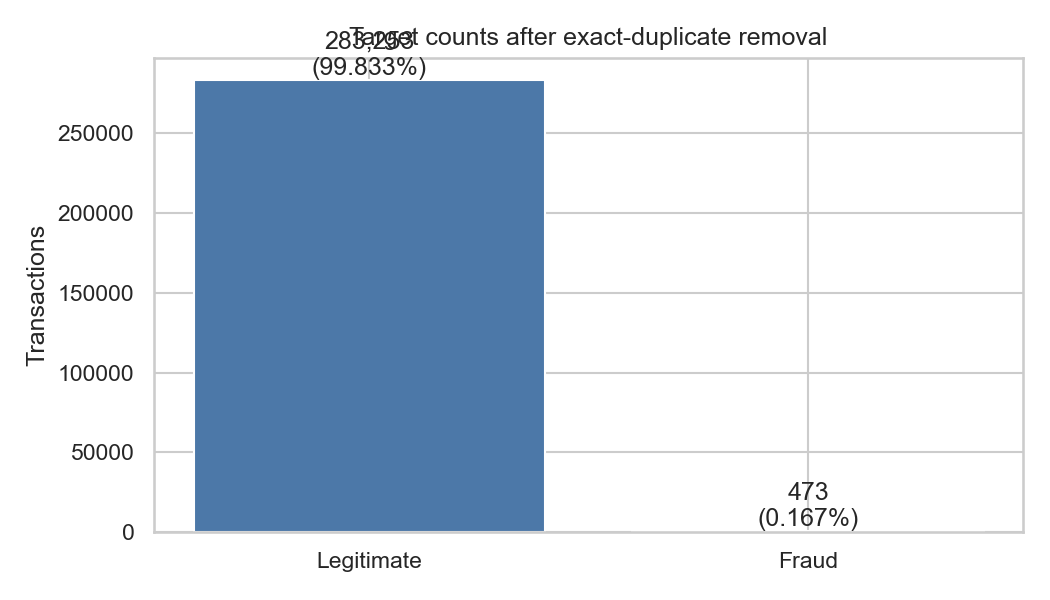
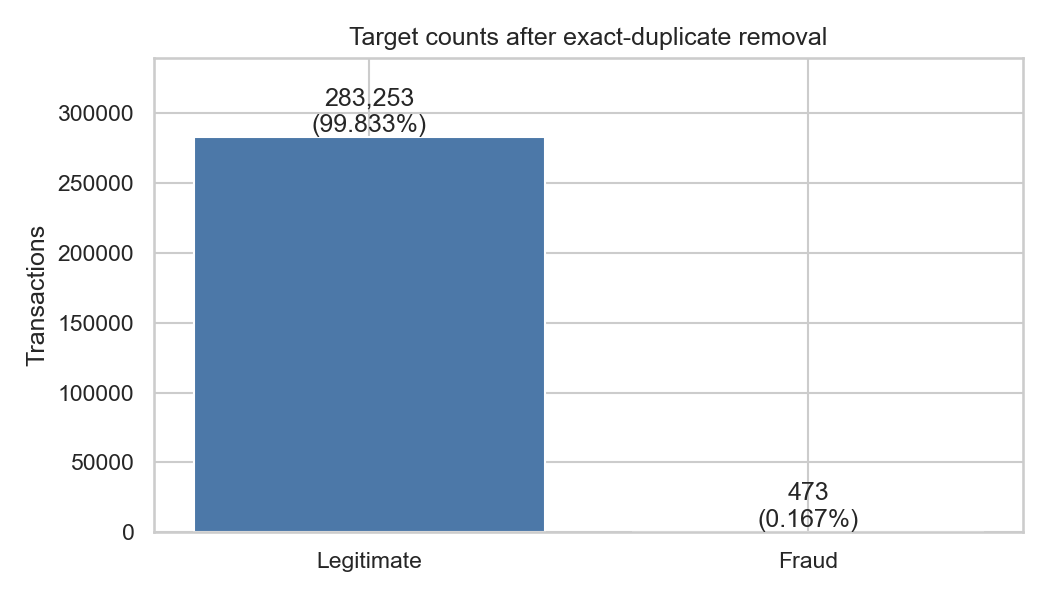
commit 5

diff --git a/README.md b/README.md
@@ -1,20 +1,24 @@
 # Credit Card Fraud Detection
 
-Reproducible analysis of the locally provided ULB / Worldline credit-card-fraud benchmark. The notebook is the primary deliverable. The dataset CSV is not committed; obtain it independently before running the project.
+An end-to-end analysis of the ULB / Worldline credit-card-fraud benchmark. The notebook audits the data, explores class and feature patterns, compares classifiers, selects a decision threshold using validation data, and reports performance on a later chronological test interval.
 
-## Problem and dataset
+## Dataset and method
 
-The binary target is `Class` (1 fraud, 0 legitimate). The standard file contains `Time`, `V1`–`V28`, `Amount`, and `Class`. The commonly documented reference is [MLG-ULB Credit Card Fraud Detection on Kaggle](https://www.kaggle.com/datasets/mlg-ulb/creditcardfraud). The raw `creditcard.csv` is excluded from GitHub because its redistribution rights are unverified. Obtain the dataset independently; do not redistribute it unless its terms permit it. `Time` is elapsed seconds relative to the dataset, not a calendar date or known time of day. `V1`–`V28` are anonymized transformed features with limited direct business interpretability.
+The standard dataset has 284,807 rows and 31 columns: elapsed `Time`, anonymized features `V1`–`V28`, `Amount`, and binary target `Class` (1 = fraud). The commonly documented reference is [MLG-ULB Credit Card Fraud Detection on Kaggle](https://www.kaggle.com/datasets/mlg-ulb/creditcardfraud). No source or license documentation accompanied the local CSV, so provenance and redistribution rights are unverified. The data is not included in this repository.
 
-## Observed results
+The analysis removes 1,081 exact duplicate rows, keeping the first occurrence (19 fraud and 1,062 legitimate). This is an explicit preprocessing assumption: results depend on treating identical rows as repeats. No missing values were imputed and no non-duplicate outliers were removed. A deterministic `log1p(Amount)` feature is added.
 
-- Raw data: 284,807 rows, 31 columns; fraud prevalence 492/284,807 (0.1727%); cleaned data has 473 fraud records (0.1667%).
-- Cleaning: 1,081 exact duplicate rows were removed from the analysis copy (19 fraud, 1,062 legitimate); no missing or non-finite values, and no non-duplicate outliers were removed. This is an analysis assumption: conclusions depend on the deduplication policy. The original CSV remains unchanged.
-- EDA: fraud amount median 9.82, legitimate median 22.00. The distributions overlap, so the difference in medians does not justify a simple amount cutoff. V17 (-8.09), V14 (-7.52), and V12 (-6.35) had the largest absolute standardized mean differences among PCA features; these descriptive effects do not confer business meaning on anonymized variables. The strongest observed pairwise PCA-feature correlation is small (V8–V21: 0.019); low pairwise correlation does not rule out nonlinear or interaction-based predictive value.
-- Chronological splits (inclusive observed `Time` ranges in elapsed seconds): train 170,235 rows/342 fraud, 0–120,392; validation 56,745/57, 120,393–145,233; test 56,746/74, 145,234–172,792. These are dataset-relative elapsed seconds, not calendar dates or times of day.
-- **HistGradientBoosting** had the highest observed validation average precision (0.77432), narrowly ahead of Logistic Regression (0.7737). This small difference on one validation interval does not establish consistent superiority.
+Rows are split chronologically by elapsed `Time`, without stratification:
 
-### Validation model comparison
+| Partition | Rows | Fraud cases | Inclusive `Time` range (seconds) |
+|---|---:|---:|---:|
+| Train | 170,235 | 342 | 0–120,392 |
+| Validation | 56,745 | 57 | 120,393–145,233 |
+| Test | 56,746 | 74 | 145,234–172,792 |
+
+Model configurations are fixed before fitting. Models are trained on the training interval and compared on validation average precision (AP), with ROC-AUC and threshold-0.5 scores also reported. AP is useful under the severe class imbalance (57 fraud cases in validation); the prior-only model's AP of 0.0010 is close to validation prevalence.
+
+## Validation results
 
 | Model | ROC-AUC | Average precision | Precision @ 0.5 | Recall @ 0.5 | F1 @ 0.5 |
 |---|---:|---:|---:|---:|---:|
@@ -23,50 +27,43 @@ The binary target is `Class` (1 fraud, 0 legitimate). The standard file contains
 | Random Forest | 0.9466 | 0.7662 | 0.9512 | 0.6842 | 0.7959 |
 | Dummy (prior) | 0.5000 | 0.0010 | 0.0000 | 0.0000 | 0.0000 |
 
-Only 57 of 56,745 validation rows are fraud, so average precision is more informative than accuracy for comparing transaction rankings: it summarizes precision and recall across thresholds. HistGradientBoosting's validation AP (0.774317) is only about 0.000645 above Logistic Regression (0.773672); this small difference on one interval does not establish consistent superiority. The prior-only dummy model's AP (0.0010) is close to the validation fraud prevalence (57/56,745), providing a useful no-skill reference.
+HistGradientBoosting was selected by validation AP. Its AP (0.77432) is only 0.000645 above Logistic Regression (0.77367); this small difference on one validation interval does not establish consistent superiority.
 
-### Validation threshold trade-offs
+The threshold was selected by maximizing validation F2, which weights recall more heavily than precision. At the selected threshold, compared with the conventional 0.5 cutoff:
 
-These counts and metrics are measured on the 56,745-row validation interval only. The selected threshold maximizes validation F2; at 0.90566246, validation F2 is 0.77338 (shown as 0.773 below), with 43 true positives, 7 false positives, 14 false negatives, and 50 alerts. F2 weights recall more heavily than precision, reflecting an emphasis on missed fraud when no operational review capacity or error costs are available. It is a validation-based proxy, not a business-optimal threshold or a guarantee of later alert volume or performance.
-
-| Threshold | Precision | Recall | F2 | TP | FP | FN | Alerts |
+| Validation threshold | Precision | Recall | F2 | TP | FP | FN | Alerts |
 |---:|---:|---:|---:|---:|---:|---:|---:|
-| 0.01 | 0.003 | 0.982 | 0.015 | 56 | 18344 | 1 | 18400 |
-| 0.05 | 0.018 | 0.877 | 0.085 | 50 | 2660 | 7 | 2710 |
-| 0.1 | 0.039 | 0.860 | 0.163 | 49 | 1222 | 8 | 1271 |
 | 0.5 | 0.232 | 0.807 | 0.540 | 46 | 152 | 11 | 198 |
-| 0.905662 | 0.860 | 0.754 | 0.773 | 43 | 7 | 14 | 50 |
+| 0.90566246 (selected) | 0.860 | 0.754 | 0.773 | 43 | 7 | 14 | 50 |
 
-- Final test on the untouched 56,746-row interval (74 fraud): ROC-AUC 0.9860; AP 0.7764; precision 0.8462; recall 0.7432; F1 0.7914; threshold 0.90566246; TN=56,662, FP=10, FN=19, TP=55 (65 alerts). The threshold was selected using validation F2, not test labels. Alert counts differ across the validation and test intervals; this threshold is not optimized for real-world review capacity or financial costs.
+This reduces validation alerts while increasing missed fraud relative to 0.5. F2 is a proxy, not a business-optimal operating point: review capacity and error costs were not provided.
 
-**Limitations:** The final test interval contains only 74 fraud cases, and results come from one chronological split. Statistical uncertainty and temporal stability have not been established. F2 does not incorporate actual operational costs or review capacity. Dataset provenance and redistribution rights are unverified, and benchmark results do not establish production banking effectiveness. See [the final summary](reports/final_summary.md) for a critical review and possible next experiments; rolling-origin evaluation, uncertainty intervals, calibration, and cost-based threshold optimization have not been performed.
+## Held-out test results
 
-## Setup and execution
+The final chronological test interval was not used for model or threshold selection. At the validation-selected threshold:
 
-1. Use Python 3.10 or newer.
-2. Install dependencies: `python -m pip install -r requirements.txt`.
-3. Obtain the dataset independently from the source above and place it at `<project-root>/creditcard.csv`. The CSV is not committed, so cloning the repository alone is not sufficient to run the notebook. `.gitignore` ignores matching data files that are untracked; it does not remove or untrack files already tracked by Git.
-4. If the file is elsewhere, edit `DATA_PATH` in the notebook's **Imports and configuration** cell to point to the local CSV, for example `Path(r"C:\path\to\creditcard.csv")`.
-5. Run from the project root: `jupyter nbconvert --to notebook --execute --inplace notebooks/credit_card_fraud_detection.ipynb`. For interactive use: `jupyter lab notebooks/credit_card_fraud_detection.ipynb`.
-6. Run the dataset-independent automated tests from the project root: `python -m pytest`.
+| ROC-AUC | Average precision | Precision | Recall | F1 | TN | FP | FN | TP | Alerts |
+|---:|---:|---:|---:|---:|---:|---:|---:|---:|---:|
+| 0.9860 | 0.7764 | 0.8462 | 0.7432 | 0.7914 | 56,662 | 10 | 19 | 55 | 65 |
 
-The checked-in model artifact records scikit-learn **1.7.2** in `models/model_metadata.json`; `requirements.txt` pins that version because scikit-learn does not guarantee compatibility when loading persisted estimators created by a different version. Recreate the model in a matching environment if you intentionally change scikit-learn.
+There are only 74 fraud cases in this test interval, and the evaluation uses one chronological split. Metric uncertainty and temporal stability have not been established. These benchmark results do not establish production banking effectiveness. `Time` is not a calendar timestamp, and the anonymized PCA features have limited business interpretability. See [the final summary](reports/final_summary.md) for additional limitations and suggested future work.
 
-The notebook locates the project root from `README.md` and `src/`, whether launched from the repository root or its `notebooks/` directory. Its default dataset path remains `<project-root>/creditcard.csv`; it does not download the data.
+## Setup
 
-## Project structure
+1. Use Python 3.10 or newer. Install dependencies from the repository root:
+   ```powershell
+   python -m pip install -r requirements.txt
+   ```
+2. Obtain the dataset independently and place it at `<project-root>/creditcard.csv`. The notebook does not download it.
+3. From the repository root, run the notebook with `jupyter lab notebooks/credit_card_fraud_detection.ipynb` or execute it with `jupyter nbconvert --to notebook --execute --inplace notebooks/credit_card_fraud_detection.ipynb`. It can also be launched from `notebooks/`; project-root discovery uses `README.md` and `src/`.
+4. Run the dataset-independent tests from the repository root: `python -m pytest`.
 
-- `notebooks/credit_card_fraud_detection.ipynb` — end-to-end executed analysis.
-- `src/data_validation.py`, `src/data_cleaning.py`, `src/eda.py`, `src/train.py`, `src/evaluate.py` — reusable workflow modules.
-- `reports/` — quality audit, model comparison, test metrics, permutation importance, and summary.
-- `plots/` — generated EDA and evaluation figures.
-- `models/` — fitted pipeline and JSON metadata including schema and decision threshold.
-- `data/raw/` — empty by default; the notebook expects `<project-root>/creditcard.csv` unless `DATA_PATH` is changed.
+The saved model metadata records scikit-learn 1.7.2, which is pinned in `requirements.txt` for compatibility with the serialized model.
 
-## Cleaning and modeling decisions
+## Repository contents
 
-Exact duplicates are removed while keeping the first occurrence before splitting; this assumption reduces the cleaned fraud count by 19, and reported conclusions are conditional on that policy. No target changes, imputation, or automatic outlier deletion are made. A chronological 60/20/20 split is used without stratification. Logistic Regression scales within its training pipeline; tree models use unscaled inputs. Class weights/sample weights address imbalance in selected models. Model choice and the F2 decision threshold use validation only; the final test interval is reserved for reporting.
-
-## Dependencies and suggested future work
-
-See `requirements.txt`. The current implementation and reported results use one chronological split, validation-based F2 threshold selection, and a held-out test interval as described above. Suggested future work—not implemented in the current results—includes rolling-origin validation, uncertainty intervals, verified current data with documented provenance, probability-calibration checks on separate data, and threshold optimization using actual review capacity and error costs. This benchmark alone is not sufficient for production decisions.
+- `notebooks/credit_card_fraud_detection.ipynb` — end-to-end analysis and post-output interpretations.
+- `src/` — schema validation, cleaning, exploratory summaries, model training, and evaluation.
+- `tests/` — synthetic-data tests that do not require the benchmark CSV.
+- `reports/`, `plots/`, `models/` — saved analysis outputs, fitted pipeline, and model metadata.
+- `data/raw/` — empty placeholder; the notebook's default CSV location is the repository root.
